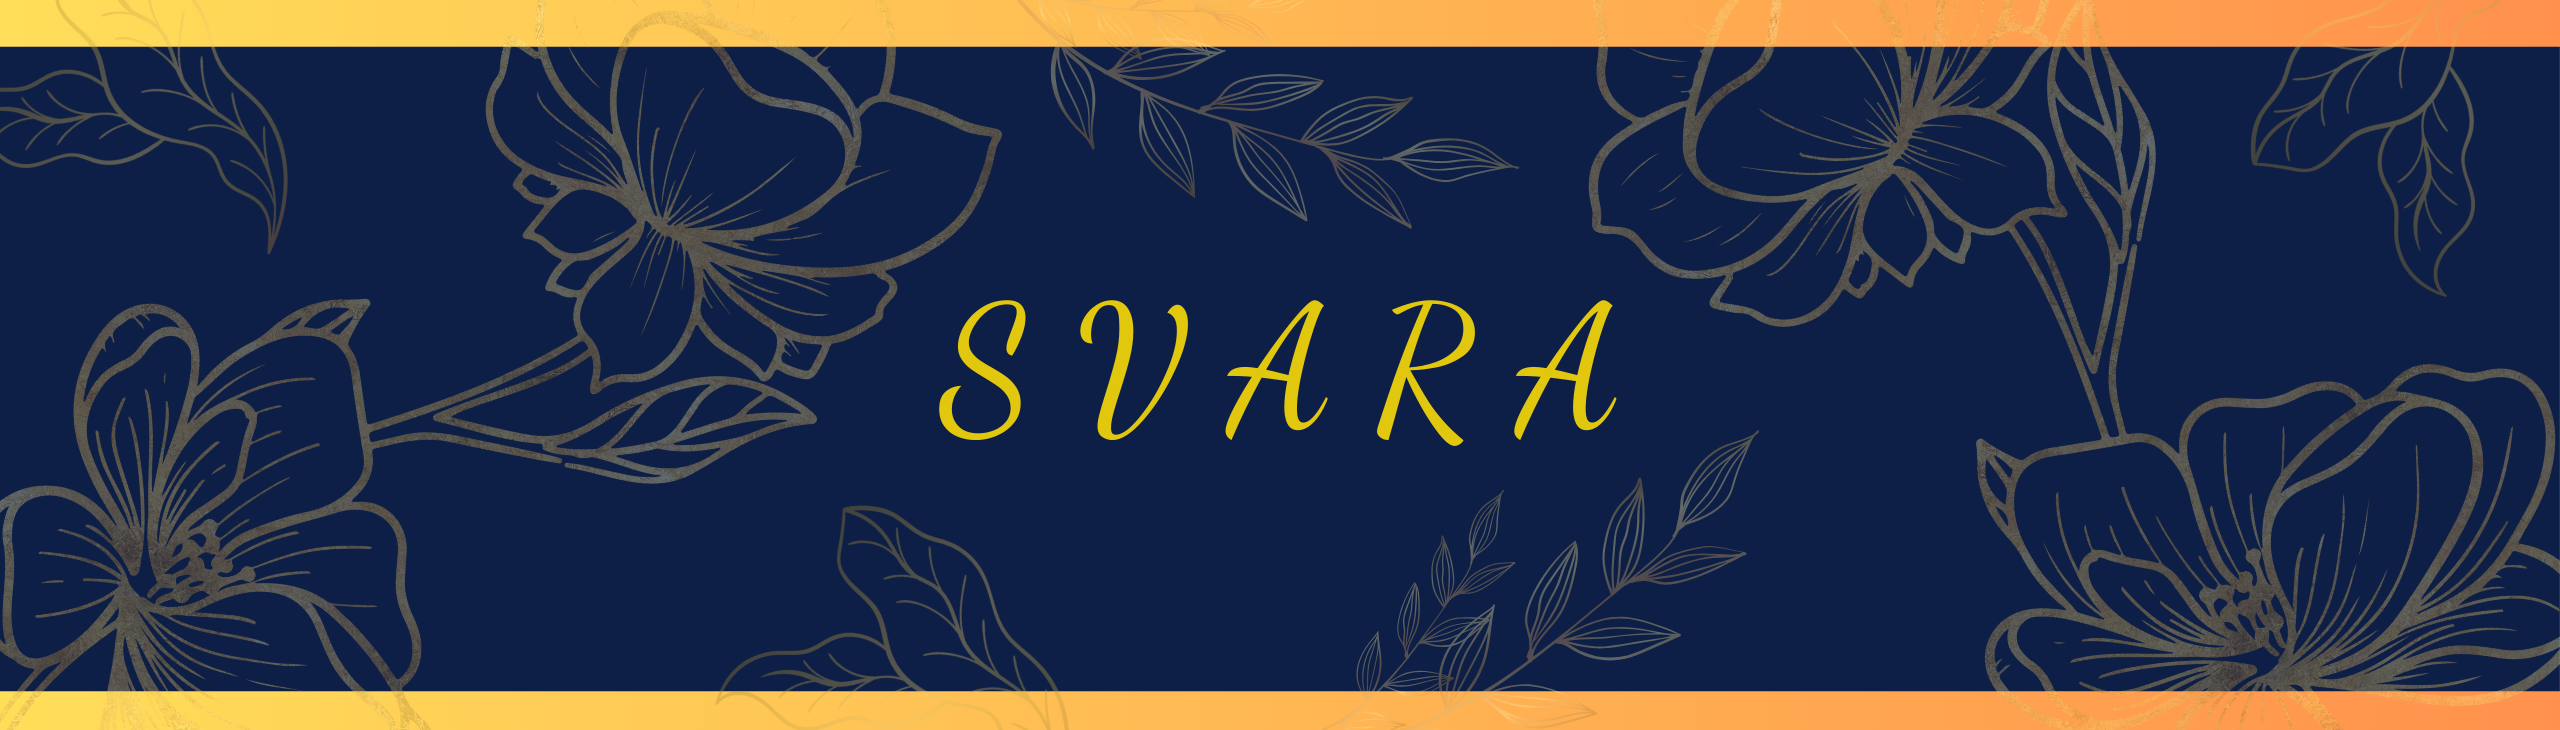
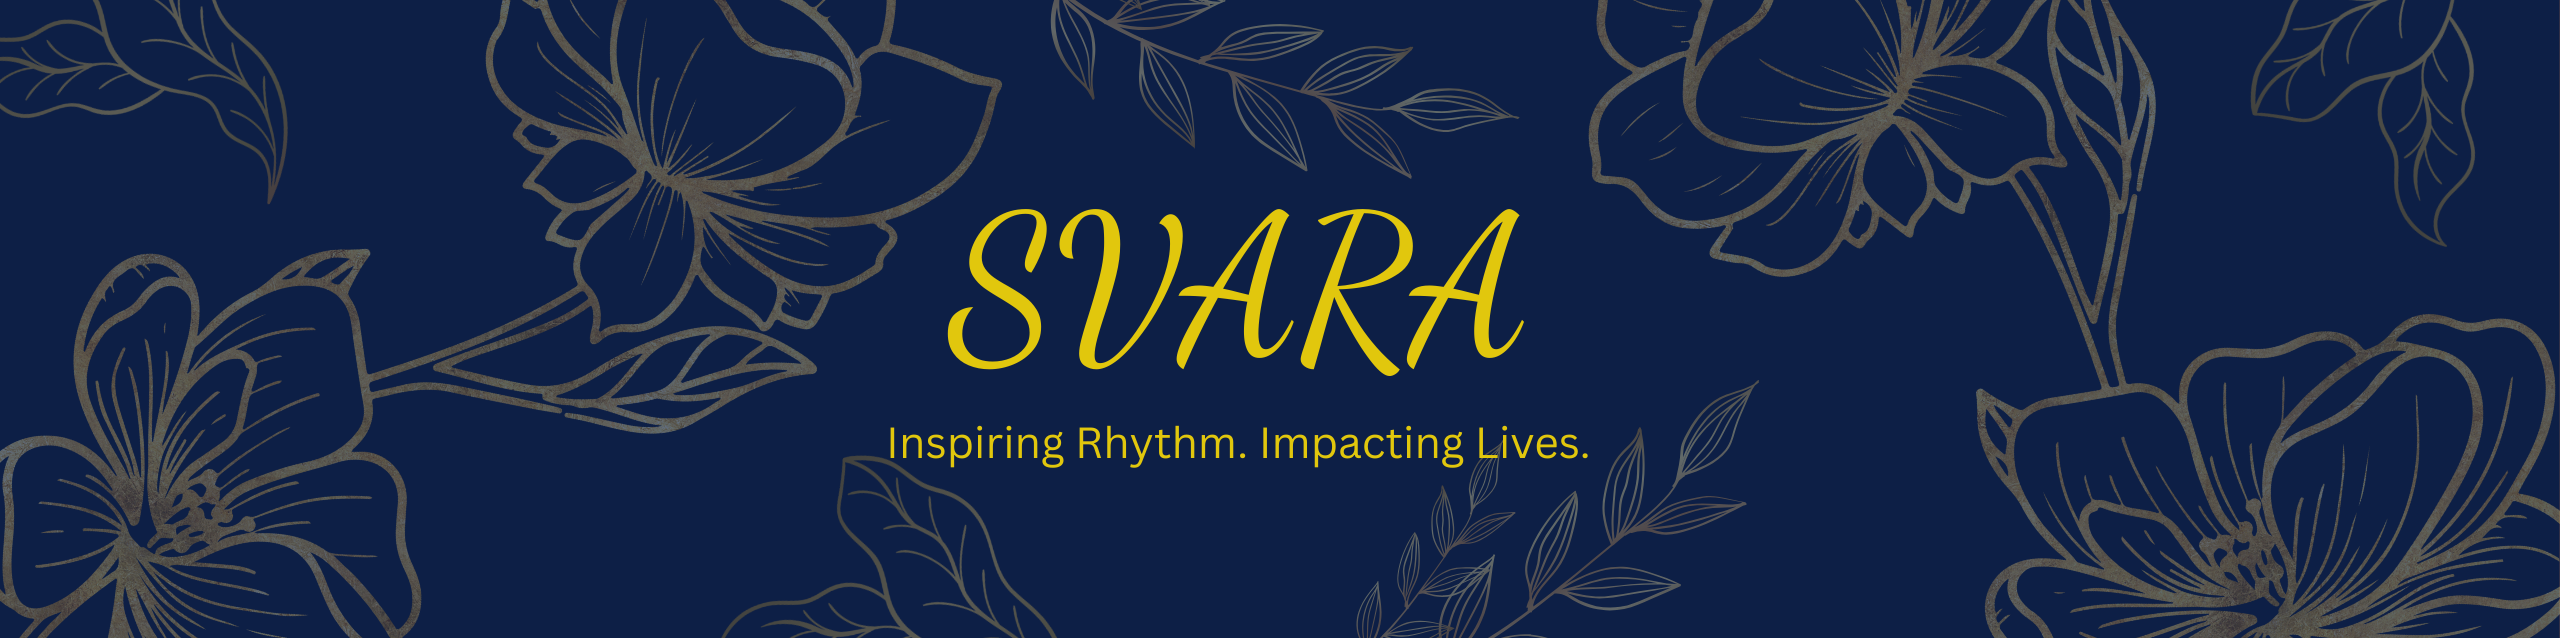
redesigned homepage

diff --git a/homeRedesign.html b/homeRedesign.html
@@ -1,0 +1,107 @@
+<!DOCTYPE html>
+<html>
+    <head>
+        <title>Welcome to Svara</title>
+        <link rel="stylesheet" href="style.css">
+        <meta charset="UTF-8">
+        <meta name="viewport" content="width=device-width, initial-scale=1.0"> 
+    </head>
+
+    <body>
+    <!--navbar-->
+        <nav>
+            <ul class="navBar">
+                <li class="navBar"><img src="logoRa.png" width="125"></li>
+                <li class="navBar"><a href="index.html">Home</a></li>
+                <li class="navBar"><a href="whoWeAreRa.html">Who we are</a></li>
+                <li class="navBar"><a href="servicesRa.html">Services</a></li>
+                <li class="navBar"><a href="blogPage.html">Blog</a></li>
+                <li class="navBar"><a href="contactUsRa.html">Contact Us</a></li>
+            </ul>
+        </nav>
+
+        <!--welcome section-->
+        <div class="homeBackgroundContainer">
+            <div class="homeBackground">
+                <!-- banner content here -->
+            </div>
+        </div>
+
+        <p></p>
+        <div class="sectionTitle">
+            <h3>Welcome to Svara, a youth-led non-profit based in Portland, Oregon. We create opportunties through dance and education, building community while also giving back. Here, we inspire rhythm and impact lives</h3>
+        </div>
+        <p></p>
+<!--why support-->
+    
+        <h2 class="homeTitle">Why you should support Us</h2>
+        
+        <div class="side-by-side">
+            <div class="column">
+                <h3 class="section"> 💛 Support a youth-led non-profit organization</h3>
+                <h3 class="section"> 💥 Make a real impact by contributing to causes</h3>
+            </div>
+             
+            <div class="column">
+                <h3 class="section"> 💪 Build and strengthen your academic skills</h3>
+                <h3 class="section"> 💃 Learn Bollywood Choreographies for any event!</h3>
+            </div>
+        </div>
+        <div class="textRow">
+            <div class="section">
+                <p class="side-by-side">Learn more about us here: <a href = "whoWeAreRa.html">Who We Are </a></p>
+            </div>
+        </div>
+        
+<!--ways--> 
+        
+    <h2 class="homeTitle">Ways you can help</h2>
+        <div class="side-by-side">
+
+            <div class="column">
+                <h3 class="section">Attend a workshop!</h3>
+                <h3 class="section">Volunteer at our events!</h3>
+            </div>      
+            
+            <div class="column">
+                <h3 class="section">Make a donation!</h3>
+            
+                <h3 class="section">Spread the word!</h3>
+            </div>
+        </div>
+
+        <div class="textRow">
+            <div class="section">
+                <p class="side-by-side">Learn more what we offer here: <a href="servicesRa.html">Services Page </a> </p>
+            </div>    
+        </div>
+    
+        
+<!--TAG-->
+<!--
+        <div>
+            <p></p>
+            <div class="tagSection">
+                <h2 id="tagTitle">Stay Informed!</h2>
+                <div>
+                    
+                </div>
+            
+                <h3>Follow Us On Our Socials</h3>
+                <div class="textRow">
+                    <img src="tiktokIcon.png" width = 35 class="sideBySide"> <h4 class="sideBySide">@svara.pdx</h4>
+                </div>
+
+                <div class="textRow">
+                    <img src="instaIcon.png" width = 35 class="sideBySide"> <h4 class="sideBySide">@svara.pdx</h4>
+                </div>
+
+                <div class="textRow">
+                    <img src="facebookIcon.png" width = 35 class="sideBySide"> <h4 class="sideBySide">@svara.pdx</h4>
+                </div>
+            </div>
+        </div>
+-->        
+
+    </body>
+</html>

diff --git a/style.css b/style.css
@@ -62,25 +62,7 @@ a:hover {
   background-size: cover;
   padding: 11px;
 }
-/*
-.bollywoodBackground,
-.mathPrepBackground,
-.testPrepBackground  {
-  width: 100%;
-  max-width: 1242px;
-  background-position: center;
-  height: 40vh;
-  align-items: flex-start;
-  justify-content: center;
-  margin-bottom: 20px;
-  color: #e1c70d;
-  display: flex;
-  flex-direction: column;
-  background-repeat: no-repeat;
-  background-size: cover;
-  padding: 11px;
-}
-*/
+
 .bollywoodBackground,
 .mathPrepBackground,
 .testPrepBackground {
@@ -143,7 +125,7 @@ ul li {
 .sectionHome,
 .tagSection,
 .statement,
-.sectionTitle,
+
 .serviceSection,
 .sectionBlog,
 .section {
@@ -155,6 +137,34 @@ ul li {
   box-shadow: 0 4px 10px rgba(0,0,0,0.2);
 }
 
+.sectionTitle {
+  flex: 1;
+  min-width: 280px;
+  padding: 20px;
+  box-sizing: border-box;
+  border-radius: 12px;
+  box-shadow: 0 4px 10px rgba(0,0,0,0.2);
+  max-width: 1000px;
+  flex: 0 0 1000px;
+  margin: 0 auto;
+}
+.homeTitle {
+  text-align: center;
+  
+}
+
+.column {
+  flex: 0 0 400px;
+  max-width: 400px;
+
+}
+
+.side-by-side {
+  display: flex;
+  gap: 20px;
+  flex-wrap:wrap;
+  justify-content: center;
+}
 .sectionHome {
   background-color: #0d1f46;
   color: #ffffff;
@@ -174,8 +184,17 @@ ul li {
   display: flex;
   flex-wrap: wrap;
   align-items: center;
+  justify-content: center;
   margin-top: 10px;
 }
+
+.textRow  .section {
+  flex: 0 0 400px;
+  max-width: 400px;
+  text-align: center;
+  
+}
+
 
 #tagTitle {
   color: #e1c70d;
